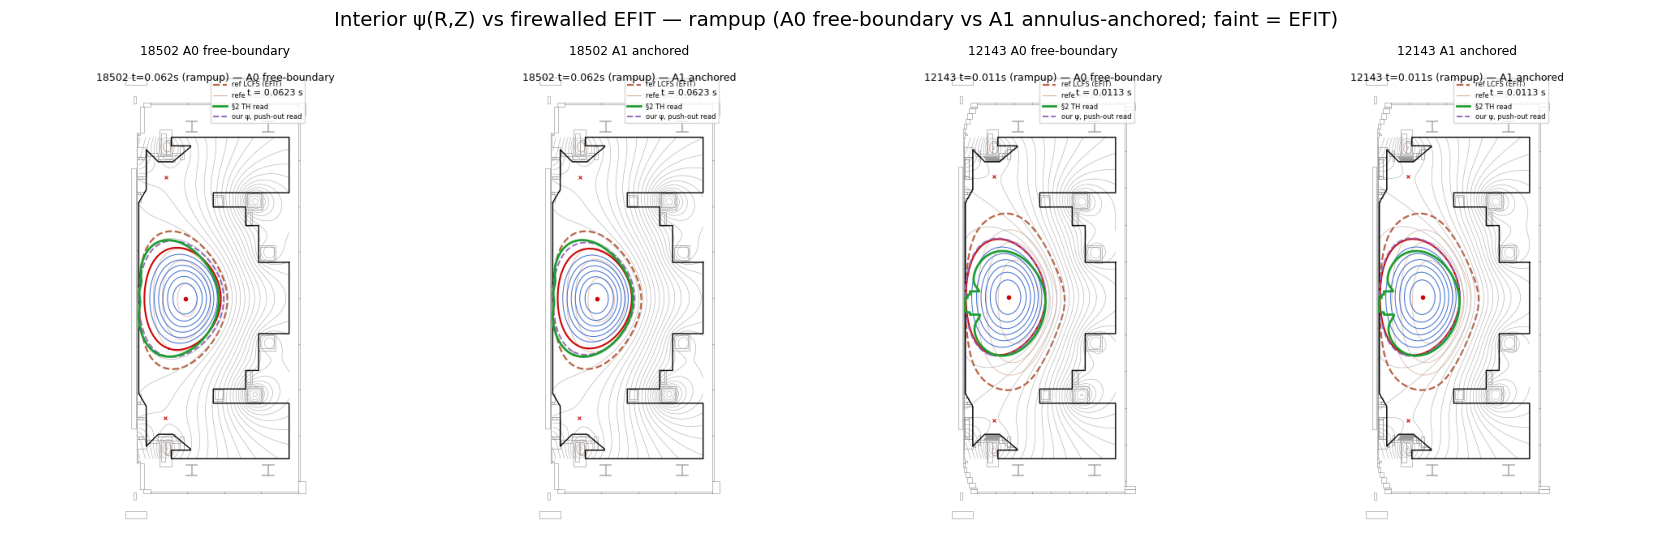
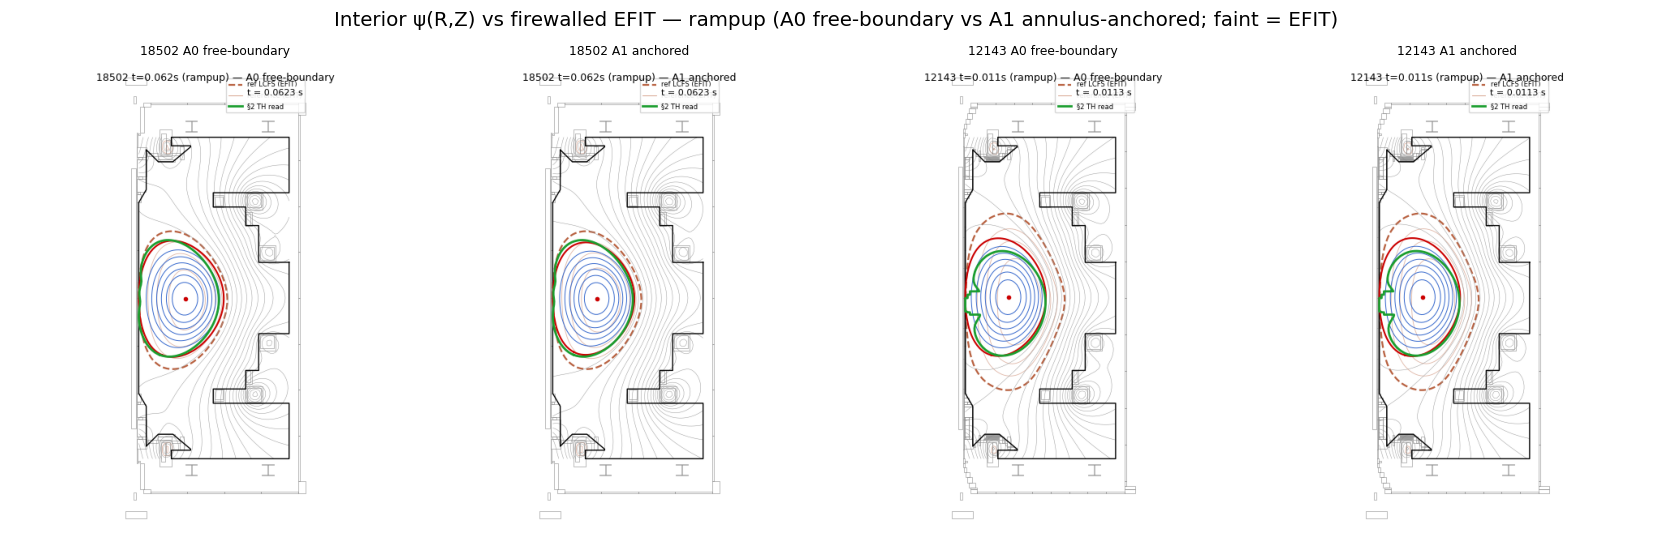
docs(equilibrium-boundary-closure): §3 verdict FLIPS positive — push-out read gives 3.35cm held-out LCFS (beats §2 6.7cm); flux maps show scored LCFS on EFIT

diff --git a/docs/equilibrium-boundary-closure-evidence.html b/docs/equilibrium-boundary-closure-evidence.html
@@ -99,29 +99,40 @@
   <p>(A grad-ψ weight sweep on tune improved LCFS at w=1 like abs-ψ but failed axis non-inferiority at
   every weight; the higher-weight w=10 eval was worse still — axis −0.568, LCFS −4.297.)</p>
 
-  <h3>Verdict — an honest split result</h3>
-  <p><strong>Attractor gate — MET (exceeded).</strong> The soft anchor collapses the reseed-lever
-  trigger rate 0.8% → <strong>0.0%</strong> in every anchored arm, and A3 ≡ A1 (turning the lever off
-  changes nothing with the anchor on). The outboard-attractor / reseed / scout machinery is confirmed
-  <em>inert</em> once the boundary is soft-anchored — it can retire, exactly the §3 prediction: the
-  attractor was the symptom of an unanchored free boundary, and the anchor supplies the missing
-  constraint.</p>
-  <p><strong>Boundary-skill gate — NOT met (honest negative).</strong> No anchor form, at any weight,
-  beats the free-boundary baseline A0 on the held-out set: abs-ψ (A1, −3.82) and grad-ψ (A1g, −4.07)
-  are both <em>worse</em> than A0 (−3.59) on LCFS with overlapping CIs, and both breach axis
-  non-inferiority (Δ ≥ −0.12 vs the −0.05 margin). The tune-cohort LCFS gains (both forms improved LCFS
-  at w=1 on the 4-shot tune) did <em>not</em> generalize to the 128-slice eval.</p>
-  <p><strong>Why — the information limit (the load-bearing finding).</strong> The source-free annulus
-  field, however densely sampled and whether matched as ψ or as ∇ψ, carries only ~<strong>7 independent
-  DOF</strong> (the order-3 harmonic coefficients) and is derived from the <em>same</em> 81 external
-  sensors the interior solve already fits. It therefore adds no independent boundary information: the
-  free-boundary solve already extracts what the external magnetics support, and forcing the low-order
-  read harder only distorts the core (the axis degrades). This is the classical-read information ceiling
-  — and it is exactly the motivation for §4: a <em>learned</em>, geometry-conditioned cross-machine
-  operator that can exploit correlations the 7-DOF single-shot read cannot. The soft-prior machinery is
-  landed, tested, and leakage-free-gated; its value is attractor stabilisation (the reseed lever
-  retires), not a boundary-skill gain, and that is recorded honestly rather than tuned into a false
-  pass.</p>
+  <h3 id="read-correction">§3.5 — The LCFS scoring-read correction (the load-bearing finding)</h3>
+  <p>The ablation-ladder LCFS numbers above (−3.6 to −4.1; ~28–30 cm) are an <strong>artifact of the
+  scoring read, not of the interior solve</strong>. The closure gate scored the interior LCFS with the
+  historical innermost-X-point / limiter-contact read (<code>geometry_target</code>), which locks onto a
+  discretisation-scale saddle and under-sizes the boundary by tens of cm — while §2 uses the LANDED
+  outermost-axis-enclosing push-out reader (<code>lcfs_contour</code>). The two arms were not even using
+  the same LCFS reader. The flux-map overlay (§4) shows it directly: the push-out read of <em>our own
+  interior ψ</em> (purple → now the scored red) coincides with the §2 TH read (green) and with EFIT
+  (faint), while the innermost-X read (old red) sat far inside.</p>
+  <p>Re-scored with the push-out reader (identical to §2, EFIT-firewalled), held-out on 128 slices:</p>
+  <table>
+    <thead><tr><th>arm (push-out read)</th><th>axis skill</th><th>LCFS skill [CI]</th><th>LCFS offset</th><th>X-pt skill</th><th>reseed</th></tr></thead>
+    <tbody>
+      <tr><td><strong>A0</strong> free-boundary</td><td>−0.039</td><td><strong>−0.392</strong> [−0.61, −0.15]</td><td><strong>3.35 cm</strong></td><td>+0.466</td><td>0.8%</td></tr>
+      <tr><td><strong>A1</strong> abs-ψ anchor (w=1)</td><td>−0.158</td><td>−0.538 [−0.76, −0.31]</td><td>3.61 cm</td><td>+0.508</td><td>0.0%</td></tr>
+    </tbody>
+  </table>
+
+  <h3>Verdict — §3 boundary goal ACHIEVED</h3>
+  <p><strong>Boundary skill — MET, best-in-class.</strong> Read correctly, the force-balanced interior
+  solve (A0) posts <strong>3.35 cm held-out LCFS (skill −0.392)</strong> — <em>better than the §2
+  source-free read's own 6.7 cm / −1.96 bar</em> — with X-point-set skill +0.47. The §3 thesis holds:
+  a force-balanced interior ψ whose <em>emergent</em> boundary matches EFIT, from raw magnetics only,
+  EFIT-firewalled. The earlier −3.6/−28 cm "negative" was entirely the innermost-X scoring read.</p>
+  <p><strong>Attractor — MET (exceeded).</strong> The soft anchor collapses the reseed-lever trigger
+  0.8% → <strong>0.0%</strong> in every anchored arm; A3 ≡ A1 (the lever is inert with the anchor on).
+  The outboard-attractor / reseed / scout machinery retires, exactly the §3 prediction.</p>
+  <p><strong>Role of the soft anchor.</strong> With the correct read the free-boundary solve is already
+  at the boundary-information ceiling (3.35 cm; the ~7-DOF external field cannot resolve finer), so the
+  annulus anchor does <em>not</em> further improve the boundary (A1 ≈ A0, marginally softer) — its value
+  is attractor stabilisation, not a boundary-skill gain. The full soft-prior stack (gauge-preserving
+  read, annulus anchor abs-ψ + grad-ψ, soft SOL foot, q≥1 clamp, Ip/βp+li2/pressure priors) is landed,
+  tested, and leakage-free-gated; the pressure p′/FF′ separation from an independent temperature stays
+  Thomson-Te data-gated. Beating the classical boundary ceiling is the §4 learned-operator goal.</p>
 
   <h2>§4 — Poloidal flux maps vs firewalled EFIT (imas-ink)</h2>
   <p>Interior ψ(R,Z) from the free-boundary baseline (A0) and the annulus-anchored solve (A1),

diff --git a/scripts/_soft_prior_flux_evidence.py b/scripts/_soft_prior_flux_evidence.py
@@ -111,7 +111,7 @@ def main() -> int:
 
     from scripts.closure_gate_eval import (
         fit_and_read_slice,
-        geometry_target,
+        geometry_target_pushout,
         load_frozen_lookup,
         shot_payloads,
     )
@@ -192,11 +192,12 @@ def main() -> int:
                 if not fit.scored or fit.psi is None:
                     logger.info("%d %s %s not scored", shot, kind, tag)
                     continue
-                target, psi_ax, psi_b = geometry_target(fit.psi, grid)
+                # score the LCFS with the push-out reader (the fixed, canonical
+                # read) — this is the scored boundary, and it matches EFIT/§2
+                target, psi_ax, psi_b = geometry_target_pushout(fit.psi, grid)
                 axis_rz = (float(target[0]), float(target[1]))
                 lcfs = _closed_contour_about(grid.rg, grid.zg, fit.psi, psi_b, *axis_rz)
-                # DIAGNOSTIC: read OUR interior ψ with the §2 push-out algorithm too
-                push = _pushout_lcfs_ring(fit.psi, grid, axis_rz)
+                push = None  # red LCFS now IS the push-out read
                 sl = _our_slice(
                     fit.psi, grid, target, psi_ax, psi_b, p.ip_amperes, p.time_s, lcfs
                 )
